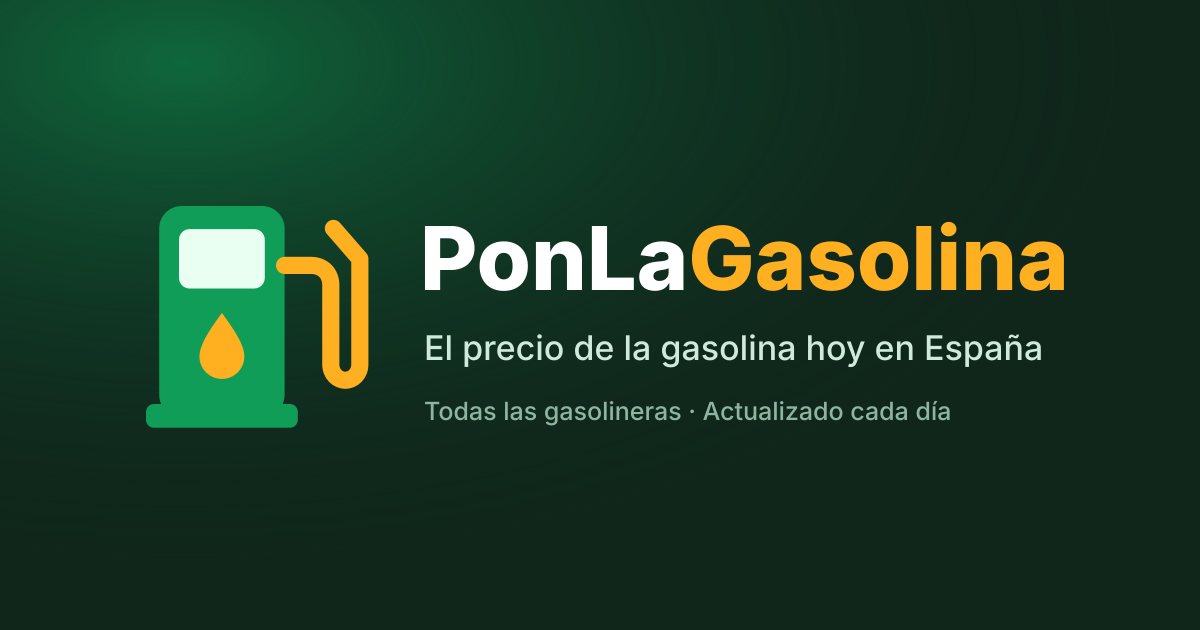
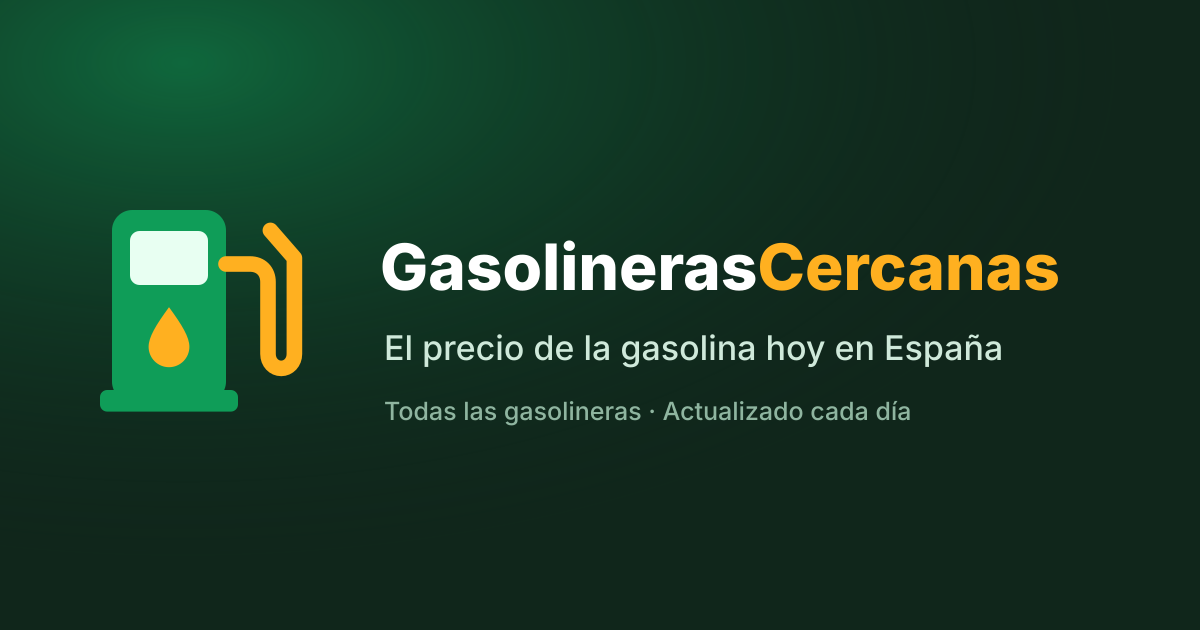
Nueva marca: GasolinerasCercanas
Claude-Session: https://claude.ai/code/session_01Qfx37ynhqiisn2rk7gCn64

Changed region(s): [[0.0617, 0.3016, 0.8942, 0.6937], [0.3083, 0.6333, 0.8017, 0.6937]]

diff --git a/data/blog/2026-11-14-como-funciona-gasolinerascercanas.md b/data/blog/2026-11-14-como-funciona-gasolinerascercanas.md
@@ -1,7 +1,7 @@
-# Así funciona PonLaGasolina: los precios de todas las gasolineras, cada día
+# Así funciona GasolinerasCercanas: los precios de todas las gasolineras, cada día
 > Qué datos usamos, cada cuánto se actualizan y cómo sacarle partido a la web para pagar menos cada vez que repostas.
 
-PonLaGasolina nace con una idea sencilla: que cualquiera pueda saber en segundos cuál es la gasolinera más barata de su zona.
+GasolinerasCercanas nace con una idea sencilla: que cualquiera pueda saber en segundos cuál es la gasolinera más barata de su zona.
 
 ## De dónde salen los precios
 

diff --git a/LEEME.md b/LEEME.md
@@ -1,4 +1,4 @@
-# PonLaGasolina: precios de todas las gasolineras de España
+# GasolinerasCercanas: precios de todas las gasolineras de España
 
 Web estática con el precio de la gasolina y el diésel en todas las gasolineras de España: páginas por provincia, municipio, marca, combustible y una ficha para cada gasolinera. Usa la misma base que PonLaRadio y TDTenDirecto.
 
